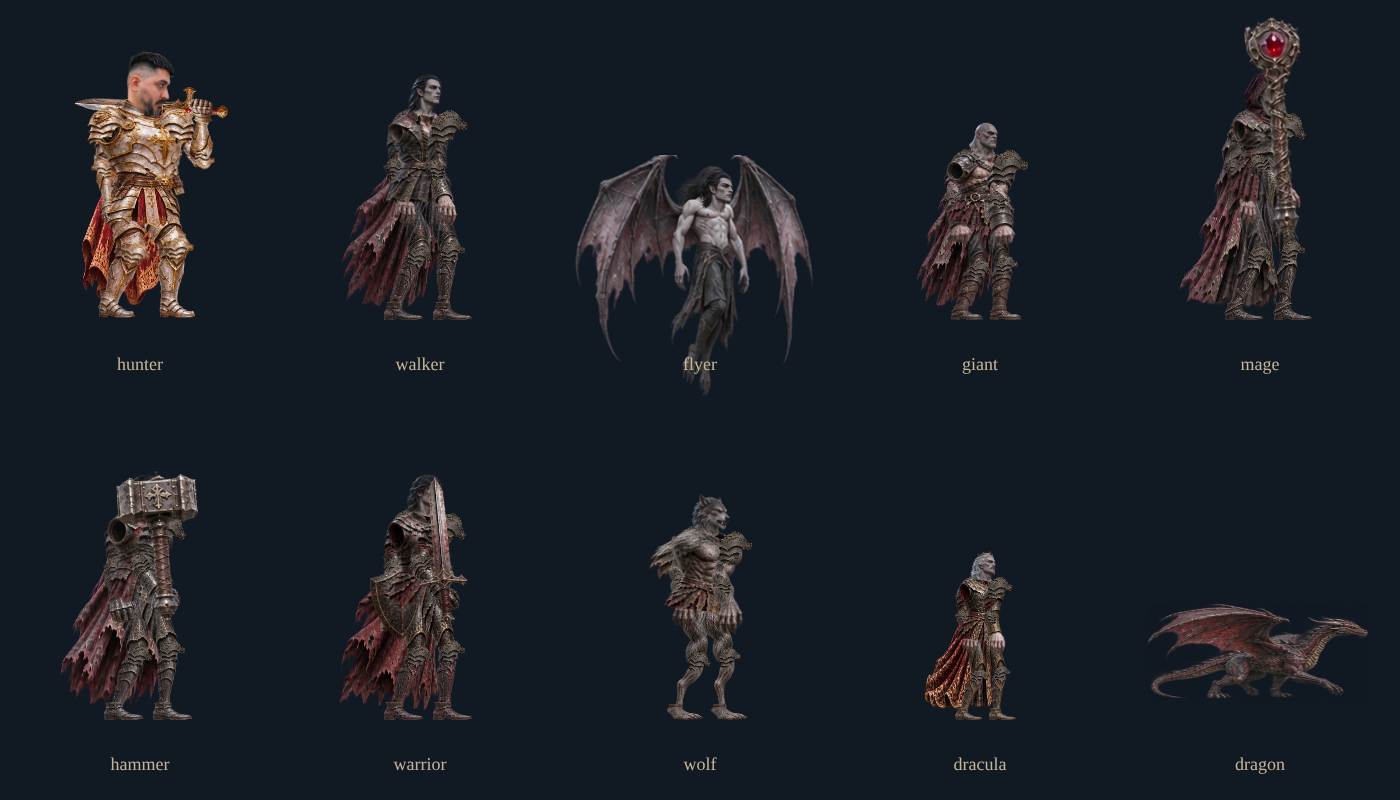
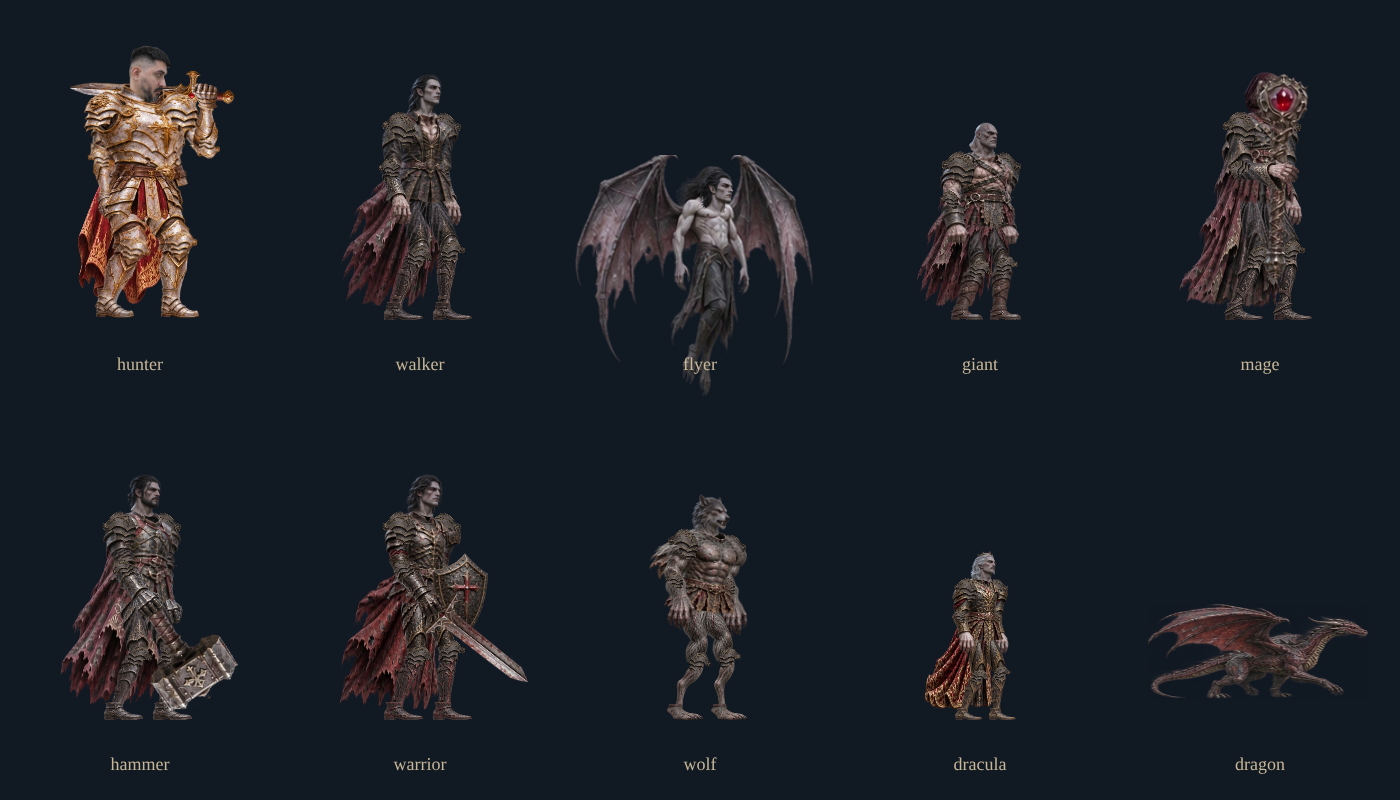
Vampyium 2: hombros, codos y armas bien puestos; Demian a la altura de los vampiros
- Brazo cercano desde el agujero del torso de tres cuartos y adelante; el otro detrás del pecho
- Hombreras y coderas en cada articulación
- Armas atravesando el puño con poses naturales (báculo como bastón, martillo y espada bajos, escudo en el brazo de atrás)
- Golpe por arriba de la cabeza: carga, golpe y vuelta sin saltos
- Demian con la altura de un vampiro común y la cara más chica y menos saturada

Claude-Session: https://claude.ai/code/session_01WPvz5PaYJXGqapsEakQuyK

diff --git a/src/features/games/vampyium2Sprites.ts b/src/features/games/vampyium2Sprites.ts
@@ -146,14 +146,16 @@ function limb(ctx: CanvasRenderingContext2D, id: number, start: Pt, end: Pt, wid
   ctx.restore();
 }
 type WeaponPainter = (hand: Pt, angle: number) => void;
-// The photo head is drawn about 35% larger than the old painted head (crown to neck).
-export const DEMIAN_FACE = { h: .5, w: .5 * 380 / 535 };
+// The photo head (crown to neck stub), a little larger than the old painted head but in proportion with the body.
+export const DEMIAN_FACE = { h: .41, w: .41 * 380 / 535 };
+// Demian is drawn as tall as a normal vampire (the vampires' art is 12% bigger than the hunter's).
+export const DEMIAN_SCALE = 1.07;
 
 // Input-driven articulated poses keep hands, weapon and shoulder plates attached throughout each action.
 export function drawRealisticHunter(ctx: CanvasRenderingContext2D, p: Player, g: Game, pose: Pose, t: number, paintWeapon: WeaponPainter) {
   if (!atlasReady('hunter')) return false;
   const rt = t;
-  ctx.save();
+  ctx.save(); ctx.scale(DEMIAN_SCALE, DEMIAN_SCALE);
   if (p.spinT > 0) { ctx.translate(0, -1); ctx.rotate((1 - p.spinT / .45) * Math.PI * 2); ctx.translate(0, 1); }
   // The 360° turn never squashes the body: he faces the other way for the back half of the turn.
   if (p.special?.kind === 'whirl') { const turn = p.special.t / .45; whirlTrail(ctx, turn); if (Math.cos(turn * Math.PI * 2) < 0) ctx.scale(-1, 1); }
@@ -259,12 +261,12 @@ export function drawRealisticHunter(ctx: CanvasRenderingContext2D, p: Player, g:
   part(ctx, 2, [hip[0], hip[1] + .10], .51 - profile * .12, .37, pose.lean * .4);
   // Demian's face (photo cutout, bigger than the painted head). The neck stub tucks into the gorget.
   const headTilt = pose.head * .4;
-  const head: Pt = [neck[0] + .05, neck[1] - .2];
+  const head: Pt = [neck[0] + .045, neck[1] - .17];
   ctx.save(); ctx.translate(neck[0] + .01, neck[1] + .05); ctx.rotate(headTilt);
   if (!drawAsset(ctx, 'demian-face', 0, -DEMIAN_FACE.w * .34, -DEMIAN_FACE.h, DEMIAN_FACE.w, DEMIAN_FACE.h)) part(ctx, 0, [.025, -.2], .316, .368);
   ctx.restore();
   const helmet = g.guardHp > 0 ? 12 : g.weapon === 'holy' || g.weapon === 'cross' ? 11 : g.weapon === 'bone' ? 13 : -1;
-  if (helmet >= 0) part(ctx, helmet, [head[0] + .01, head[1] - .045], .45, .51, headTilt);
+  if (helmet >= 0) part(ctx, helmet, [head[0] + .005, head[1] - .03], .38, .43, headTilt);
   for (const side of depth.front) arm(side, 'all');
   if (p.attackT > .025 && p.attackT < .18 && ['firesword', 'violet', 'bone'].includes(p.attackWeapon)) {
     ctx.save(); ctx.globalCompositeOperation = 'lighter'; ctx.globalAlpha *= Math.sin(p.attackT / .18 * Math.PI) * .32;
@@ -342,38 +344,77 @@ function drawArticulatedEnemy(ctx: CanvasRenderingContext2D, v: Vamp, t: number)
     jointArmor(ctx, knee, origin, ankle, heavy ? .22 : .19, 'iron', [1, 0]);
     ctx.restore();
   };
-  const arm = (i: number, layer: 'all' | 'upper' | 'forearm' = 'all') => {
-    const lateral = (i ? 1 : -1) * (walkProfile ? .045 : heavy ? .205 : wolf ? .18 : .155);
-    const shoulder: Pt = [neck[0] + lateral * Math.cos(lean) - .11 * Math.sin(lean),
-      neck[1] + lateral * Math.sin(lean) + .11 * Math.cos(lean)];
-    const carry = i === 1 && ['mage', 'hammer', 'warrior'].includes(v.kind);
-    const walkArm = walkingArm(g, i, .31, .30, carry ? 1.05 : .18);
-    let a = airborne ? (i ? .55 : -.50) : walkArm[0] - prepare * .35;
-    let b = walkArm[1];
+  // The painted torsos are turned three quarters towards the hunter: the open armhole on the viewer's LEFT is the
+  // right shoulder (near the camera); the left shoulder is on the far side, behind the chest. So the right arm
+  // (index 1, the one that carries the weapon) hangs from that armhole IN FRONT of the torso and the left arm
+  // (index 0) hangs from the far shoulder BEHIND it. Walking in profile both shoulders are almost together.
+  const torsoW = (heavy ? .65 : wolf ? .59 : .51) * (walkProfile ? .76 : 1) + breath;
+  const carryKind = ['mage', 'hammer', 'warrior'].includes(v.kind);
+  // Where along the weapon the fist closes (fraction from its top) and how long it is.
+  const GRIP: Record<string, { at: number; len: number }> = { mage: { at: .42, len: 1.55 }, hammer: { at: .74, len: 1.2 }, warrior: { at: .865, len: 1.15 } };
+  const armPose = (i: number) => {
+    const lateral = walkProfile ? (i ? -.045 : .045) : (i ? -1 : 1) * torsoW * .37;
+    const shoulder: Pt = [neck[0] + lateral * Math.cos(lean) - .115 * Math.sin(lean),
+      neck[1] + lateral * Math.sin(lean) + .115 * Math.cos(lean)];
+    const carry = i === 1 && carryKind;
+    let a: number, b: number;
+    // Carrying: the mage leans on the staff like a walking stick (forearm level, staff upright, foot on the floor);
+    // the hammer and the sword hang low and forward from a relaxed arm, so they never cover the face.
+    const stick = v.kind === 'mage';
+    if (carry) { a = (stick ? .45 : .22) + g.arm[i] * .14 - prepare * .2; b = stick ? .9 : .3; }
+    else { const w = walkingArm(g, i, .31, .30, .18); a = w[0] - prepare * .35; b = w[1]; }
+    if (airborne) { a = i ? .45 : -.4; b = carry && stick ? 1.1 : .4; }
+    let weaponAngle = !carry ? 0 : stick ? .12 + g.arm[i] * .05 : v.kind === 'hammer' ? 2.55 : 2.25; // (0 = upright, + leans forward)
     if (action.active) {
-      const casting = v.state !== 'claw';
-      a = casting ? .25 + windup * 1.4 + extension * (v.state === 'zap' ? 2.5 : 1.1)
-        : i ? .18 - windup * (v.kind === 'hammer' ? 2.55 : .95) + extension * 1.35
-          : -.12 - windup * .42 + extension * .8;
-      b = casting ? .45 + windup * .35 : .55 + windup * .75 - extension * .50;
+      const rest = Math.max(0, 1 - windup - extension);
+      if (v.state !== 'claw') { // casting: both hands forward, the staff raised in front
+        a = a * rest + (.35 + windup * 1.1 + extension * (v.state === 'zap' ? 2.2 : 1.05)) * (1 - rest);
+        b = b * rest + (.6 - extension * .25) * (1 - rest);
+        weaponAngle = Math.PI / 2 - (a + b) - .15;
+      } else if (i === 1) {
+        // An overhead blow, as in fighting games: the arm rises in FRONT up over the head with the elbow bent (the
+        // weapon hangs behind the shoulder), then chops down and forward; the weapon sweeps over the top in one arc.
+        const up = carry ? 2.75 : 2.5, hit = carry ? 1.05 : 1.4;
+        a = a * rest + up * windup + hit * extension;
+        b = b * rest + (carry ? 1.85 : .9) * windup + (carry ? .2 : .1) * extension;
+        const wUp = v.kind === 'warrior' ? -1.9 : -2.35, wHit = v.kind === 'hammer' ? 1.75 : 1.6;
+        weaponAngle = weaponAngle * rest + wUp * windup + wHit * extension;
+      } else { // the free arm balances the blow
+        a = a * rest + (-.45) * windup + .55 * extension;
+        b = b * rest + .7 * windup + .35 * extension;
+      }
     }
     const elbow = add(shoulder, a, .31), hand = add(elbow, a + b, .30);
-    ctx.save(); if (walkProfile ? g.arm[i] < 0 : !i) ctx.globalAlpha *= .88;
-    if (layer !== 'forearm') { bone(2, shoulder, elbow, heavy ? .25 : .19); jointArmor(ctx, shoulder, add(shoulder, a - 2.4, .3), elbow, heavy ? .36 : .29, 'iron', [-.3, -1]); }
-    if (layer !== 'upper') { bone(3, elbow, add(hand, a + b, .065), heavy ? .23 : .17, .035); jointArmor(ctx, elbow, shoulder, hand, heavy ? .19 : .16, 'iron', [-1, 0]); }
-    if (carry && layer !== 'upper') {
-      const height = v.kind === 'mage' ? 1.65 : v.kind === 'hammer' ? 1.15 : 1.10;
-      const width = height * assetAspect(atlas, base + 7);
-      ctx.save(); ctx.translate(...hand);
-      ctx.rotate(-.08 - windup * (v.kind === 'hammer' ? .65 : .35) + extension * (v.kind === 'mage' ? .15 : 1.2));
-      paint(7, [.02, -height * .32], width, height); ctx.restore();
-    }
-    if (!i && v.kind === 'warrior' && layer !== 'upper') paint(8, [hand[0] - .04, hand[1] - .04], .40, .59);
+    return { shoulder, elbow, hand, a, b, carry, weaponAngle };
+  };
+  const far = (i: number) => walkProfile ? g.arm[i] < 0 : i === 0;
+  const weapon = (pose: ReturnType<typeof armPose>) => {
+    const gp = GRIP[v.kind], height = gp.len, width = height * assetAspect(atlas, base + 7);
+    ctx.save(); ctx.translate(...pose.hand); ctx.rotate(pose.weaponAngle);
+    paint(7, [0, (.5 - gp.at) * height], width, height); ctx.restore();
+  };
+  const pauldron = (shoulder: Pt, a: number, mirror: boolean) => {
+    const v2 = ironVariant(16); if (!v2) return;
+    const h = heavy ? .34 : wolf ? .27 : .27, w = h * v2.width / v2.height;
+    ctx.save(); ctx.translate(shoulder[0], shoulder[1] - h * .08); ctx.rotate(-a * .35); if (mirror) ctx.scale(-1, 1);
+    ctx.drawImage(v2, -w * .42, -h * .32, w, h); ctx.restore();
+  };
+  const arm = (i: number) => {
+    const pose = armPose(i), { shoulder, elbow, hand, a, b, carry } = pose;
+    ctx.save(); if (far(i)) ctx.globalAlpha *= .9;
+    bone(2, shoulder, elbow, heavy ? .25 : .19);
+    pauldron(shoulder, a, !walkProfile && i === 0);
+    if (carry) weapon(pose); // behind the forearm: the fingers close over the handle
+    bone(3, elbow, add(hand, a + b, .065), heavy ? .23 : .17, .035);
+    jointArmor(ctx, elbow, shoulder, hand, heavy ? .19 : .16, 'iron', [-1, 0]);
     ctx.restore();
   };
   const depth = walkProfile ? walkingDepth(g) : { back: [0], front: [1] };
   leg(0); for (const side of depth.back) arm(side); leg(1);
-  paint(1, [hip[0] + Math.sin(lean) * .30, hip[1] - Math.cos(lean) * .28], (heavy ? .65 : wolf ? .59 : .51) * (walkProfile ? .76 : 1) + breath, .73, lean, walkProfile ? .24 : 0);
+  paint(1, [hip[0] + Math.sin(lean) * .30, hip[1] - Math.cos(lean) * .28], torsoW, .73, lean, walkProfile ? .24 : 0);
+  if (v.kind === 'warrior') { // the shield is strapped to the far (left) forearm and covers the chest from the front
+    const sp = armPose(0); paint(8, [sp.hand[0] + .1, sp.hand[1] - .1], .42, .62, lean * .5);
+  }
   if (!drawEnemyHead(ctx, v.kind, [neck[0] + .02, neck[1]], -lean * .25 + g.sway * .008))
     paint(0, [neck[0] + .045, neck[1] - .14], wolf ? .39 : heavy ? .34 : .30, wolf ? .34 : .35, -lean * .25);
   for (const side of depth.front) arm(side);

diff --git a/docs/vampyium2-octava-ronda.md b/docs/vampyium2-octava-ronda.md
@@ -1,0 +1,7 @@
+# Octava corrección — articulaciones, armas en la mano y altura de Demian
+
+- **Hombros**: el torso pintado está de tres cuartos; el agujero del brazo que se ve a la izquierda es el hombro derecho (el cercano). Ahora el brazo derecho sale de ahí y va ADELANTE del torso, y el izquierdo sale del hombro de atrás, detrás del pecho (antes estaban al revés: se veía el agujero vacío y el brazo de atrás tapaba el pecho). Cada hombro lleva su hombrera.
+- **Codos**: articulación propia con codera, siempre del lado de afuera del codo.
+- **Armas**: el arma pasa por el puño, en ángulo recto con el antebrazo, y se dibuja detrás de los dedos. Poses naturales: el mago se apoya en el báculo como un bastón, el martillo y la espada cuelgan bajos y hacia adelante (ya no tapan la cara), el escudo del guerrero va en el brazo de atrás y cubre el pecho.
+- **Golpes**: carga levantando el brazo por delante hasta arriba de la cabeza (el arma queda detrás del hombro), golpe hacia adelante y abajo, y vuelta. El arma recorre el arco por arriba de la cabeza sin saltos.
+- **Demian**: la misma altura que un vampiro común; cara más chica y menos saturada.
